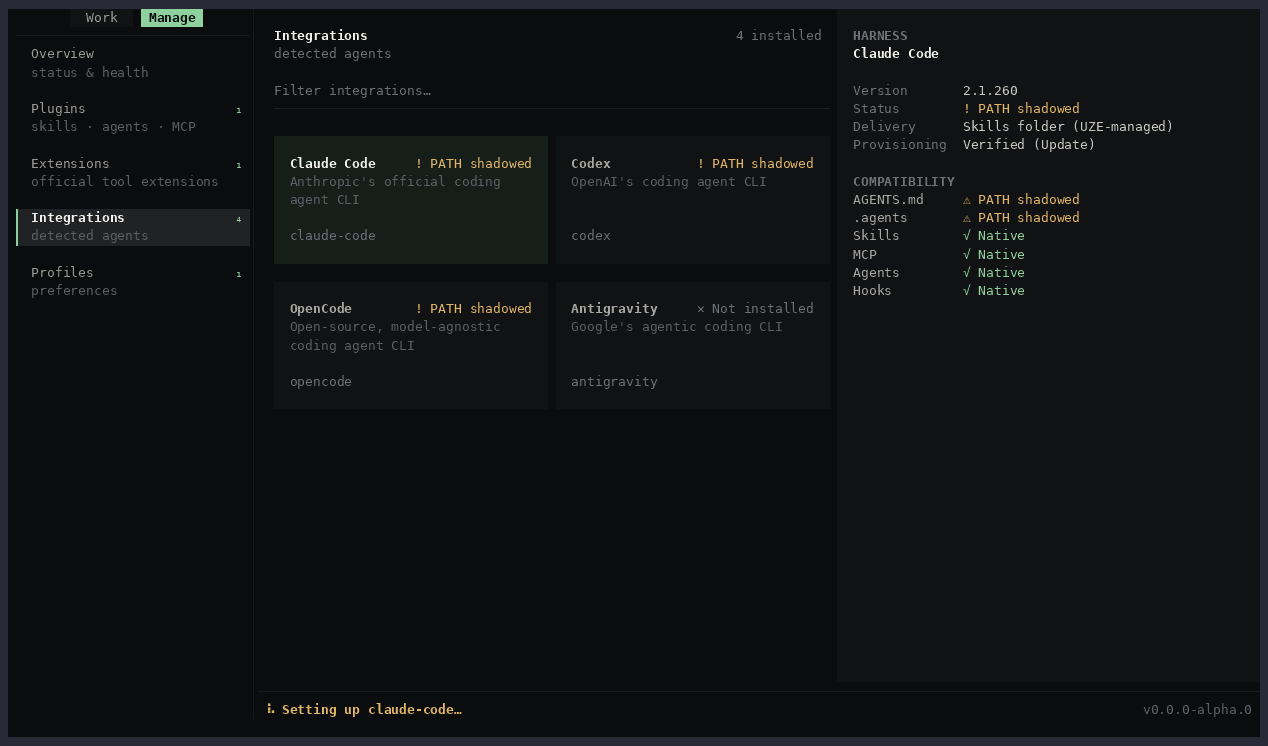
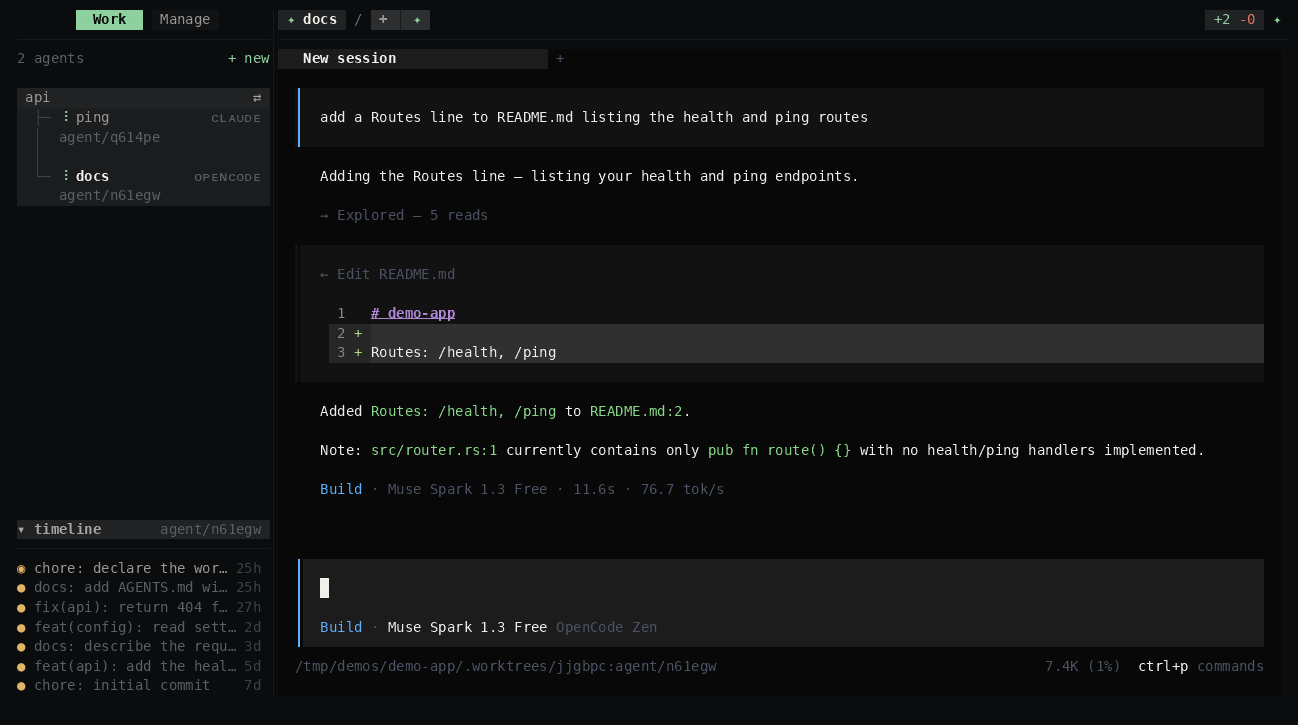
feat(web): show the workspace running two harnesses at once, on the site and in the README
The previous take was a single shell in one space: it showed the terminal
but not the reason the terminal exists. This one runs a Claude Code agent
and an OpenCode agent in the same project, each on its own branch in its
own checkout, with the commit timeline of one beside them — the claim the
page makes above it, happening, across two vendors rather than one.

The README's screenshot was a still of the management screen from before
the routes were renamed, so it advertised a UI that no longer exists. It
now points at the same recording, and `.assets/tui.png` is gone rather
than left behind to go stale a second time.

The still frame served under `prefers-reduced-motion` is picked from the
recording itself, at the moment both harnesses are visible in the sidebar
and one is mid-edit, so a reader who never sees the animation loses the
least.

The frame is rounded now, and clips, since the recording is a raster that
would otherwise square off the corners it sits in.

diff --git a/web/app/(home)/page.tsx b/web/app/(home)/page.tsx
@@ -136,9 +136,9 @@ export default function HomePage() {
               <source srcSet="/uze-demo-poster.png" media="(prefers-reduced-motion: reduce)" />
               <img
                 src="/uze-demo.gif"
-                width={1268}
-                height={746}
-                alt="The uze terminal: a project space with its commit timeline, the changes overlay reviewing a diff, then the machine view listing the four detected coding agents and what each one receives natively."
+                width={1298}
+                height={725}
+                alt="The uze terminal: one project running a Claude Code agent and an OpenCode agent at once, each on its own branch in its own checkout, with the commit timeline of one beside them."
                 className="block h-auto w-full"
               />
             </picture>

diff --git a/web/app/global.css b/web/app/global.css
@@ -89,6 +89,10 @@ html > body[data-scroll-locked] {
 */
 .uze-demo-frame {
   position: relative;
+  border-radius: 10px;
+  /* The recording is a raster inside the frame, so the corners only round
+     if the frame clips them. */
+  overflow: hidden;
   box-shadow:
     0 1px 2px rgba(10, 12, 13, 0.06),
     0 24px 60px -30px rgba(10, 12, 13, 0.45);

diff --git a/README.md b/README.md
@@ -15,7 +15,7 @@ Antigravity — gets it through its own most native surface. Then run them
 side by side, each agent in an isolated checkout of its own.
 
 <p align="center">
-  <img src=".assets/tui.png" alt="uze TUI — overview, marketplace, plugins and context bridges" width="860" />
+  <img src="web/public/uze-demo.gif" alt="The uze terminal running a Claude Code agent and an OpenCode agent at once, each on its own branch in its own checkout" width="860" />
 </p>
 
 ```sh
